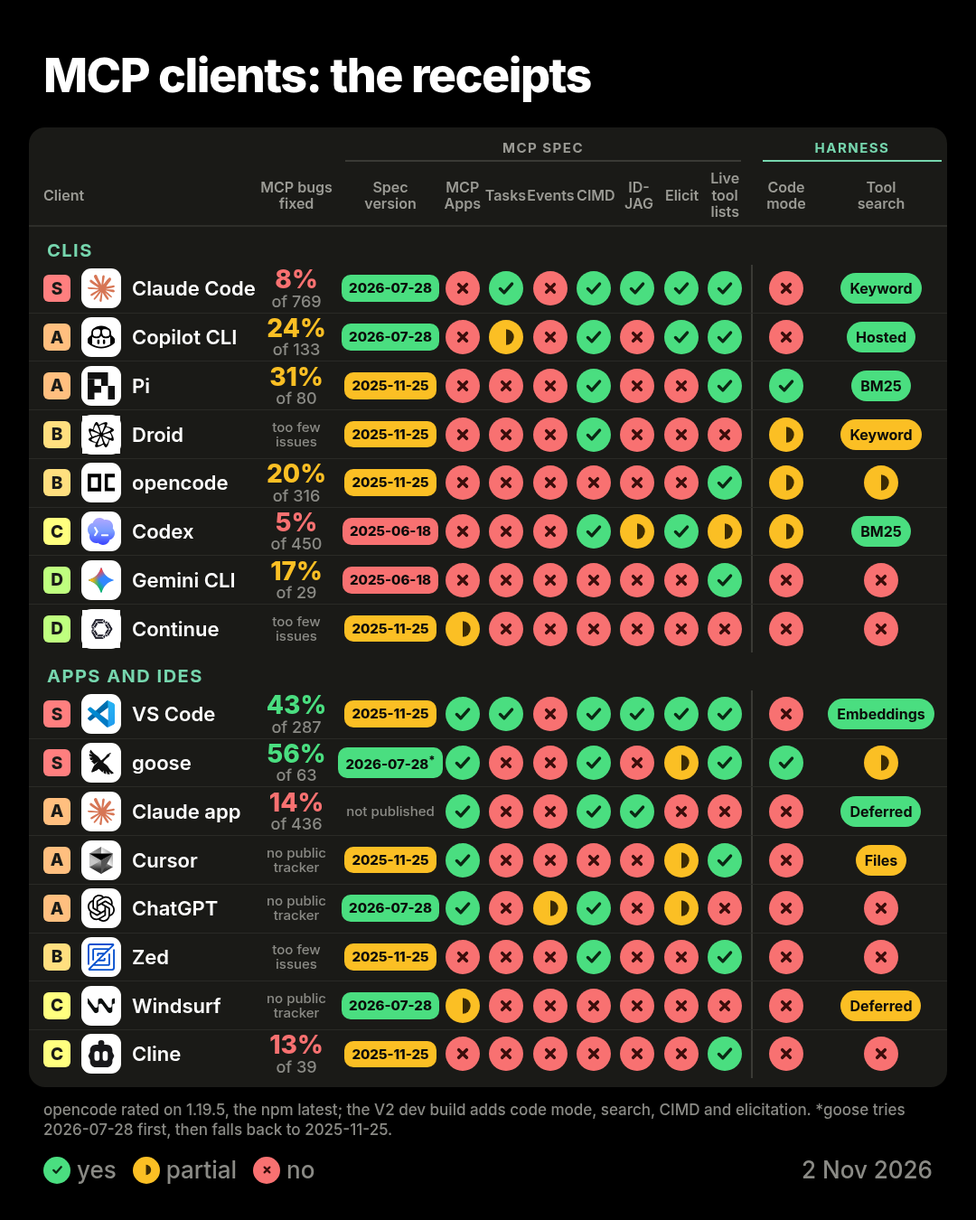
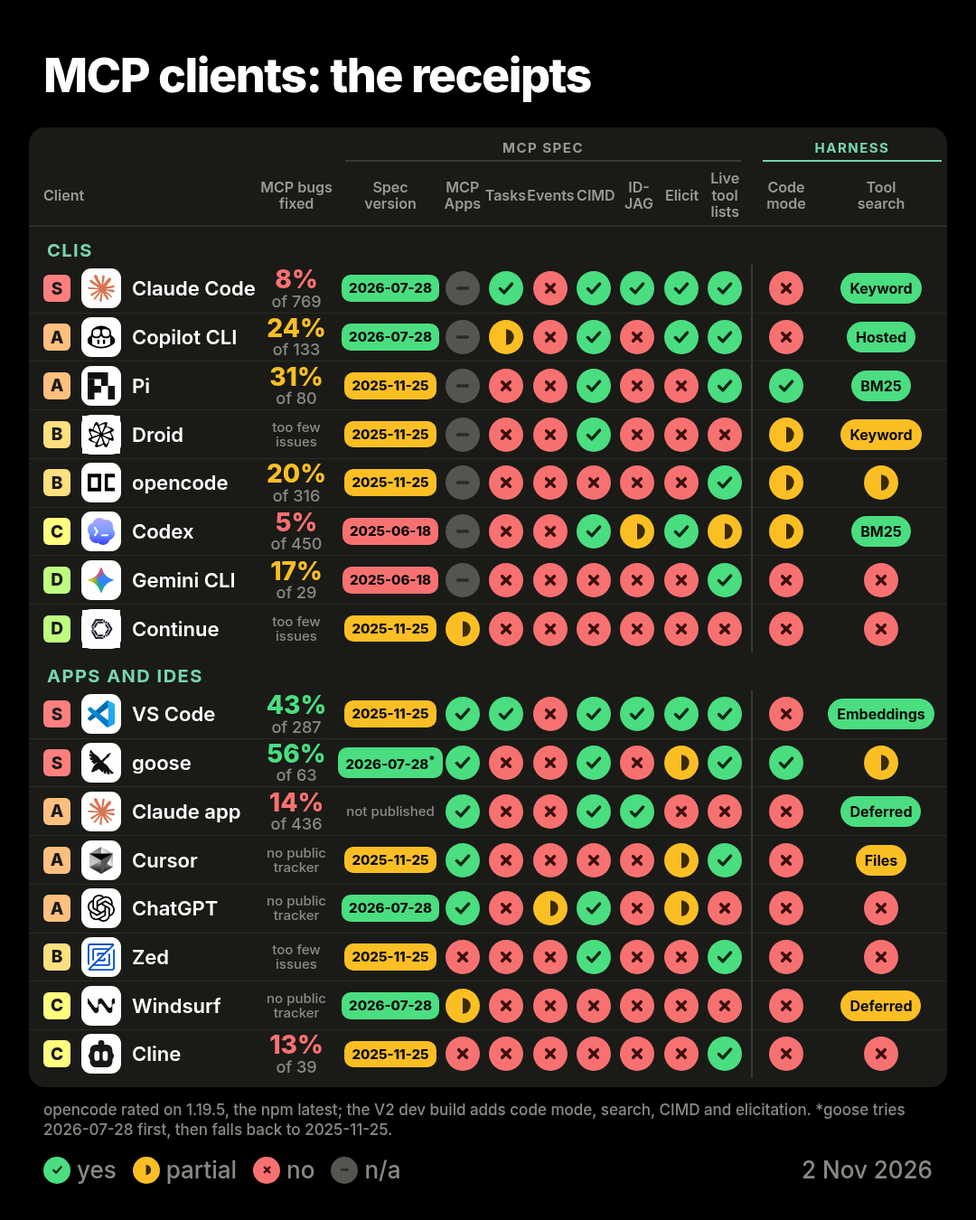
Grey out MCP Apps for terminal CLIs as n/a
A terminal has no web view to render MCP Apps UI, so a red "no" on the
seven terminal CLIs read as a missing feature. The cell is now "na":
grey dash icon, scored 0 like "no", so tiers are unchanged. Continue
keeps "p" because its IDE GUI renders apps. Validation allows "na" only
on the apps cell of a cli client and rejects a since date on it.

Changed region(s): [[0.4583, 0.2178, 0.4889, 0.4978], [0.3361, 0.9333, 0.3972, 0.9956]]

diff --git a/README.md b/README.md
@@ -17,13 +17,13 @@ As of 2 Nov 2026. Click any cell for its source, or a client name for the full e
 
 | Tier | Client | Version checked | MCP bugs fixed | Spec version | MCP Apps | Tasks | Events | CIMD | ID-JAG | Elicitation | Live tool lists | Code mode <sub>harness</sub> | Tool search <sub>harness</sub> |
 | --- | --- | --- | --- | --- | --- | --- | --- | --- | --- | --- | --- | --- | --- |
-| **S** | [Claude Code](EVIDENCE.md#claude-code) | `2.1.314` | [8% of 769](https://github.com/anthropics/claude-code/issues) | [![current spec](assets/icons/spec-current.svg) 2026-07-28](https://code.claude.com/docs/en/changelog) | [![no](assets/icons/n.svg)](https://github.com/anthropics/claude-code/issues/95149) | [![yes](assets/icons/y.svg)](https://code.claude.com/docs/en/mcp) | [![no](assets/icons/n.svg)](https://github.com/anthropics/claude-code/issues/101434) | [![yes](assets/icons/y.svg)](https://code.claude.com/docs/en/mcp) | [![yes](assets/icons/y.svg)](https://blog.modelcontextprotocol.io/posts/enterprise-managed-auth) | [![yes](assets/icons/y.svg)](https://code.claude.com/docs/en/mcp) | [![yes](assets/icons/y.svg)](https://github.com/anthropics/claude-code/blob/80c6959d28c4c30ecd14fc1cdf172f19d9adad81/CHANGELOG.md#L8529) | [![no](assets/icons/n.svg)](https://code.claude.com/docs/en/mcp) | [![yes](assets/icons/y.svg) Keyword](https://registry.npmjs.org/@anthropic-ai/claude-code-linux-x64/2.1.314) |
-| **A** | [Copilot CLI](EVIDENCE.md#copilot-cli) | `1.0.105` | [24% of 133](https://github.com/github/copilot-cli/issues) | [![current spec](assets/icons/spec-current.svg) 2026-07-28](https://github.com/github/copilot-cli/blob/main/changelog.md) | [![no](assets/icons/n.svg)](https://github.com/github/copilot-cli/blob/main/changelog.md) | [![partial](assets/icons/p.svg)](https://github.com/github/copilot-cli/blob/main/changelog.md) | [![no](assets/icons/n.svg)](https://registry.npmjs.org/@github/copilot-linux-x64/1.0.105) | [![yes](assets/icons/y.svg)](https://github.com/github/copilot-cli/blob/main/changelog.md) | [![no](assets/icons/n.svg)](https://registry.npmjs.org/@github/copilot-linux-x64/1.0.105) | [![yes](assets/icons/y.svg)](https://github.com/github/copilot-cli/blob/main/changelog.md) | [![yes](assets/icons/y.svg)](https://github.com/github/copilot-cli/blob/84ee80ea6490ce02d6000439356a609fcefbb9ae/changelog.md#L454) | [![no](assets/icons/n.svg)](https://github.com/github/copilot-cli/blob/main/changelog.md) | [![yes](assets/icons/y.svg) Hosted](https://registry.npmjs.org/@github/copilot-linux-x64/1.0.105) |
-| **A** | [Pi](EVIDENCE.md#pi) | `1.4.0` | [31% of 80](https://github.com/earendil-works/pi/issues) | [![one version behind](assets/icons/spec-behind.svg) 2025-11-25](https://registry.npmjs.org/@earendil-works/pi-coding-agent/1.4.0) | [![no](assets/icons/n.svg)](https://github.com/earendil-works/pi/blob/4a080252f06caf63a525d7873c5d94d3c23887e0/packages/coding-agent/docs/mcp.md#L246) | [![no](assets/icons/n.svg)](https://registry.npmjs.org/@earendil-works/pi-coding-agent/1.4.0) | [![no](assets/icons/n.svg)](https://github.com/earendil-works/pi/tree/4a080252f06caf63a525d7873c5d94d3c23887e0/packages/mcp/src) | [![yes](assets/icons/y.svg)](https://github.com/earendil-works/pi/blob/4a080252f06caf63a525d7873c5d94d3c23887e0/packages/coding-agent/docs/mcp.md#L162) | [![no](assets/icons/n.svg)](https://github.com/earendil-works/pi/tree/4a080252f06caf63a525d7873c5d94d3c23887e0/packages/mcp/src) | [![no](assets/icons/n.svg)](https://registry.npmjs.org/@earendil-works/pi-coding-agent/1.4.0) | [![yes](assets/icons/y.svg)](https://github.com/earendil-works/pi/blob/v1.4.0/packages/coding-agent/src/extensions/mcp/runtime.ts#L380-L382) | [![yes](assets/icons/y.svg)](https://github.com/earendil-works/pi/blob/4a080252f06caf63a525d7873c5d94d3c23887e0/packages/coding-agent/docs/mcp.md#L195) | [![yes](assets/icons/y.svg) BM25](https://github.com/earendil-works/pi/blob/4a080252f06caf63a525d7873c5d94d3c23887e0/packages/coding-agent/src/extensions/tool-search/tool.ts#L118) |
-| **B** | [Droid](EVIDENCE.md#droid) | `1.0.0` | [too few issues](https://github.com/Factory-AI/factory/issues) | [![one version behind](assets/icons/spec-behind.svg) 2025-11-25](https://registry.npmjs.org/@factory/cli-linux-x64/1.0.0) | [![no](assets/icons/n.svg)](https://registry.npmjs.org/@factory/cli-linux-x64/1.0.0) | [![no](assets/icons/n.svg)](https://registry.npmjs.org/@factory/cli-linux-x64/1.0.0) | [![no](assets/icons/n.svg)](https://registry.npmjs.org/@factory/cli-linux-x64/1.0.0) | [![yes](assets/icons/y.svg)](https://docs.factory.com/harness/mcp) | [![no](assets/icons/n.svg)](https://registry.npmjs.org/@factory/cli-linux-x64/1.0.0) | [![no](assets/icons/n.svg)](https://registry.npmjs.org/@factory/cli-linux-x64/1.0.0) | [![no](assets/icons/n.svg)](https://docs.factory.ai/cli/configuration/mcp) | [![partial](assets/icons/p.svg)](https://registry.npmjs.org/@factory/cli-linux-x64/1.0.0) | [![yes](assets/icons/y.svg) Keyword](https://registry.npmjs.org/@factory/cli-linux-x64/1.0.0) |
-| **B** | [opencode](EVIDENCE.md#opencode) | `1.19.5` | [20% of 316](https://github.com/anomalyco/opencode/issues) | [![one version behind](assets/icons/spec-behind.svg) 2025-11-25](https://github.com/anomalyco/opencode/blob/810c0eba1a7348036f8bdf61e6632d0c36c6876c/packages/opencode/src/mcp/index.ts#L39) | [![no](assets/icons/n.svg)](https://github.com/anomalyco/opencode/blob/810c0eba1a7348036f8bdf61e6632d0c36c6876c/packages/opencode/src/mcp/index.ts#L39) | [![no](assets/icons/n.svg)](https://github.com/anomalyco/opencode/blob/810c0eba1a7348036f8bdf61e6632d0c36c6876c/packages/opencode/src/mcp/index.ts#L47) | [![no](assets/icons/n.svg)](https://github.com/anomalyco/opencode/tree/810c0eba1a7348036f8bdf61e6632d0c36c6876c/packages/opencode/src/mcp) | [![no](assets/icons/n.svg)](https://github.com/anomalyco/opencode/blob/810c0eba1a7348036f8bdf61e6632d0c36c6876c/packages/opencode/src/mcp/index.ts#L301) | [![no](assets/icons/n.svg)](https://github.com/anomalyco/opencode/tree/810c0eba1a7348036f8bdf61e6632d0c36c6876c/packages/opencode/src/mcp) | [![no](assets/icons/n.svg)](https://github.com/anomalyco/opencode/blob/810c0eba1a7348036f8bdf61e6632d0c36c6876c/packages/opencode/src/mcp/index.ts#L44) | [![yes](assets/icons/y.svg)](https://github.com/anomalyco/opencode/blob/v1.19.5/packages/opencode/src/mcp/index.ts#L461-L471) | [![partial](assets/icons/p.svg)](https://github.com/anomalyco/opencode/blob/810c0eba1a7348036f8bdf61e6632d0c36c6876c/packages/opencode/src/effect/runtime-flags.ts#L48) | [![partial](assets/icons/p.svg)](https://github.com/anomalyco/opencode/blob/810c0eba1a7348036f8bdf61e6632d0c36c6876c/packages/codemode/src/tool-runtime.ts#L411) |
-| **C** | [Codex](EVIDENCE.md#codex) | `0.166.0` | [5% of 450](https://github.com/openai/codex/issues) | [![older spec](assets/icons/spec-older.svg) 2025-06-18](https://github.com/openai/codex/blob/6ff1e1ca3b30fc8b914720681fcf5fe62e95f856/codex-rs/features/src/lib.rs#L1641) | [![no](assets/icons/n.svg)](https://github.com/openai/codex/issues/52524) | [![no](assets/icons/n.svg)](https://github.com/openai/codex/issues/48617) | [![no](assets/icons/n.svg)](https://github.com/openai/codex/blob/6ff1e1ca3b30fc8b914720681fcf5fe62e95f856/codex-rs/codex-mcp/src/resource_client.rs#L353) | [![yes](assets/icons/y.svg)](https://developers.openai.com/codex/mcp) | [![partial](assets/icons/p.svg)](https://github.com/openai/codex/blob/6ff1e1ca3b30fc8b914720681fcf5fe62e95f856/codex-rs/features/src/lib.rs#L1671) | [![yes](assets/icons/y.svg)](https://github.com/openai/codex/pull/22188) | [![partial](assets/icons/p.svg)](https://github.com/openai/codex/blob/rust-v0.166.0/codex-rs/features/src/lib.rs#L1646-L1651) | [![partial](assets/icons/p.svg)](https://developers.openai.com/codex/config-reference) | [![yes](assets/icons/y.svg) BM25](https://github.com/openai/codex/blob/6ff1e1ca3b30fc8b914720681fcf5fe62e95f856/codex-rs/core/src/tools/handlers/tool_search.rs#L171) |
-| **D** | [Gemini CLI](EVIDENCE.md#gemini-cli) | `0.66.0` | [17% of 29](https://github.com/google-gemini/gemini-cli/issues) | [![older spec](assets/icons/spec-older.svg) 2025-06-18](https://github.com/google-gemini/gemini-cli/blob/970413207732f5d4d8c50540c7fc359c44fdaaf2/packages/core/package.json#L34) | [![no](assets/icons/n.svg)](https://github.com/google-gemini/gemini-cli/blob/970413207732f5d4d8c50540c7fc359c44fdaaf2/packages/core/src/tools/mcp-client.ts#L1869) | [![no](assets/icons/n.svg)](https://github.com/google-gemini/gemini-cli/blob/970413207732f5d4d8c50540c7fc359c44fdaaf2/packages/core/src/tools/mcp-client.ts#L1869) | [![no](assets/icons/n.svg)](https://github.com/google-gemini/gemini-cli/tree/970413207732f5d4d8c50540c7fc359c44fdaaf2/packages/core/src) | [![no](assets/icons/n.svg)](https://github.com/google-gemini/gemini-cli/blob/970413207732f5d4d8c50540c7fc359c44fdaaf2/packages/core/src/mcp/oauth-provider.ts#L105) | [![no](assets/icons/n.svg)](https://github.com/google-gemini/gemini-cli/tree/970413207732f5d4d8c50540c7fc359c44fdaaf2/packages/core/src/mcp) | [![no](assets/icons/n.svg)](https://github.com/google-gemini/gemini-cli/blob/970413207732f5d4d8c50540c7fc359c44fdaaf2/packages/core/src/tools/mcp-client.ts#L1869) | [![yes](assets/icons/y.svg)](https://github.com/google-gemini/gemini-cli/blob/v0.66.0/packages/core/src/tools/mcp-client.ts#L419-L427) | [![no](assets/icons/n.svg)](https://github.com/google-gemini/gemini-cli/tree/970413207732f5d4d8c50540c7fc359c44fdaaf2/packages/core/src/tools) | [![no](assets/icons/n.svg)](https://github.com/google-gemini/gemini-cli/tree/970413207732f5d4d8c50540c7fc359c44fdaaf2/packages/core/src/tools) |
+| **S** | [Claude Code](EVIDENCE.md#claude-code) | `2.1.314` | [8% of 769](https://github.com/anthropics/claude-code/issues) | [![current spec](assets/icons/spec-current.svg) 2026-07-28](https://code.claude.com/docs/en/changelog) | [![not applicable](assets/icons/na.svg)](https://github.com/anthropics/claude-code/issues/95149) | [![yes](assets/icons/y.svg)](https://code.claude.com/docs/en/mcp) | [![no](assets/icons/n.svg)](https://github.com/anthropics/claude-code/issues/101434) | [![yes](assets/icons/y.svg)](https://code.claude.com/docs/en/mcp) | [![yes](assets/icons/y.svg)](https://blog.modelcontextprotocol.io/posts/enterprise-managed-auth) | [![yes](assets/icons/y.svg)](https://code.claude.com/docs/en/mcp) | [![yes](assets/icons/y.svg)](https://github.com/anthropics/claude-code/blob/80c6959d28c4c30ecd14fc1cdf172f19d9adad81/CHANGELOG.md#L8529) | [![no](assets/icons/n.svg)](https://code.claude.com/docs/en/mcp) | [![yes](assets/icons/y.svg) Keyword](https://registry.npmjs.org/@anthropic-ai/claude-code-linux-x64/2.1.314) |
+| **A** | [Copilot CLI](EVIDENCE.md#copilot-cli) | `1.0.105` | [24% of 133](https://github.com/github/copilot-cli/issues) | [![current spec](assets/icons/spec-current.svg) 2026-07-28](https://github.com/github/copilot-cli/blob/main/changelog.md) | [![not applicable](assets/icons/na.svg)](https://github.com/github/copilot-cli/blob/main/changelog.md) | [![partial](assets/icons/p.svg)](https://github.com/github/copilot-cli/blob/main/changelog.md) | [![no](assets/icons/n.svg)](https://registry.npmjs.org/@github/copilot-linux-x64/1.0.105) | [![yes](assets/icons/y.svg)](https://github.com/github/copilot-cli/blob/main/changelog.md) | [![no](assets/icons/n.svg)](https://registry.npmjs.org/@github/copilot-linux-x64/1.0.105) | [![yes](assets/icons/y.svg)](https://github.com/github/copilot-cli/blob/main/changelog.md) | [![yes](assets/icons/y.svg)](https://github.com/github/copilot-cli/blob/84ee80ea6490ce02d6000439356a609fcefbb9ae/changelog.md#L454) | [![no](assets/icons/n.svg)](https://github.com/github/copilot-cli/blob/main/changelog.md) | [![yes](assets/icons/y.svg) Hosted](https://registry.npmjs.org/@github/copilot-linux-x64/1.0.105) |
+| **A** | [Pi](EVIDENCE.md#pi) | `1.4.0` | [31% of 80](https://github.com/earendil-works/pi/issues) | [![one version behind](assets/icons/spec-behind.svg) 2025-11-25](https://registry.npmjs.org/@earendil-works/pi-coding-agent/1.4.0) | [![not applicable](assets/icons/na.svg)](https://github.com/earendil-works/pi/blob/4a080252f06caf63a525d7873c5d94d3c23887e0/packages/coding-agent/docs/mcp.md#L246) | [![no](assets/icons/n.svg)](https://registry.npmjs.org/@earendil-works/pi-coding-agent/1.4.0) | [![no](assets/icons/n.svg)](https://github.com/earendil-works/pi/tree/4a080252f06caf63a525d7873c5d94d3c23887e0/packages/mcp/src) | [![yes](assets/icons/y.svg)](https://github.com/earendil-works/pi/blob/4a080252f06caf63a525d7873c5d94d3c23887e0/packages/coding-agent/docs/mcp.md#L162) | [![no](assets/icons/n.svg)](https://github.com/earendil-works/pi/tree/4a080252f06caf63a525d7873c5d94d3c23887e0/packages/mcp/src) | [![no](assets/icons/n.svg)](https://registry.npmjs.org/@earendil-works/pi-coding-agent/1.4.0) | [![yes](assets/icons/y.svg)](https://github.com/earendil-works/pi/blob/v1.4.0/packages/coding-agent/src/extensions/mcp/runtime.ts#L380-L382) | [![yes](assets/icons/y.svg)](https://github.com/earendil-works/pi/blob/4a080252f06caf63a525d7873c5d94d3c23887e0/packages/coding-agent/docs/mcp.md#L195) | [![yes](assets/icons/y.svg) BM25](https://github.com/earendil-works/pi/blob/4a080252f06caf63a525d7873c5d94d3c23887e0/packages/coding-agent/src/extensions/tool-search/tool.ts#L118) |
+| **B** | [Droid](EVIDENCE.md#droid) | `1.0.0` | [too few issues](https://github.com/Factory-AI/factory/issues) | [![one version behind](assets/icons/spec-behind.svg) 2025-11-25](https://registry.npmjs.org/@factory/cli-linux-x64/1.0.0) | [![not applicable](assets/icons/na.svg)](https://registry.npmjs.org/@factory/cli-linux-x64/1.0.0) | [![no](assets/icons/n.svg)](https://registry.npmjs.org/@factory/cli-linux-x64/1.0.0) | [![no](assets/icons/n.svg)](https://registry.npmjs.org/@factory/cli-linux-x64/1.0.0) | [![yes](assets/icons/y.svg)](https://docs.factory.com/harness/mcp) | [![no](assets/icons/n.svg)](https://registry.npmjs.org/@factory/cli-linux-x64/1.0.0) | [![no](assets/icons/n.svg)](https://registry.npmjs.org/@factory/cli-linux-x64/1.0.0) | [![no](assets/icons/n.svg)](https://docs.factory.ai/cli/configuration/mcp) | [![partial](assets/icons/p.svg)](https://registry.npmjs.org/@factory/cli-linux-x64/1.0.0) | [![yes](assets/icons/y.svg) Keyword](https://registry.npmjs.org/@factory/cli-linux-x64/1.0.0) |
+| **B** | [opencode](EVIDENCE.md#opencode) | `1.19.5` | [20% of 316](https://github.com/anomalyco/opencode/issues) | [![one version behind](assets/icons/spec-behind.svg) 2025-11-25](https://github.com/anomalyco/opencode/blob/810c0eba1a7348036f8bdf61e6632d0c36c6876c/packages/opencode/src/mcp/index.ts#L39) | [![not applicable](assets/icons/na.svg)](https://github.com/anomalyco/opencode/blob/810c0eba1a7348036f8bdf61e6632d0c36c6876c/packages/opencode/src/mcp/index.ts#L39) | [![no](assets/icons/n.svg)](https://github.com/anomalyco/opencode/blob/810c0eba1a7348036f8bdf61e6632d0c36c6876c/packages/opencode/src/mcp/index.ts#L47) | [![no](assets/icons/n.svg)](https://github.com/anomalyco/opencode/tree/810c0eba1a7348036f8bdf61e6632d0c36c6876c/packages/opencode/src/mcp) | [![no](assets/icons/n.svg)](https://github.com/anomalyco/opencode/blob/810c0eba1a7348036f8bdf61e6632d0c36c6876c/packages/opencode/src/mcp/index.ts#L301) | [![no](assets/icons/n.svg)](https://github.com/anomalyco/opencode/tree/810c0eba1a7348036f8bdf61e6632d0c36c6876c/packages/opencode/src/mcp) | [![no](assets/icons/n.svg)](https://github.com/anomalyco/opencode/blob/810c0eba1a7348036f8bdf61e6632d0c36c6876c/packages/opencode/src/mcp/index.ts#L44) | [![yes](assets/icons/y.svg)](https://github.com/anomalyco/opencode/blob/v1.19.5/packages/opencode/src/mcp/index.ts#L461-L471) | [![partial](assets/icons/p.svg)](https://github.com/anomalyco/opencode/blob/810c0eba1a7348036f8bdf61e6632d0c36c6876c/packages/opencode/src/effect/runtime-flags.ts#L48) | [![partial](assets/icons/p.svg)](https://github.com/anomalyco/opencode/blob/810c0eba1a7348036f8bdf61e6632d0c36c6876c/packages/codemode/src/tool-runtime.ts#L411) |
+| **C** | [Codex](EVIDENCE.md#codex) | `0.166.0` | [5% of 450](https://github.com/openai/codex/issues) | [![older spec](assets/icons/spec-older.svg) 2025-06-18](https://github.com/openai/codex/blob/6ff1e1ca3b30fc8b914720681fcf5fe62e95f856/codex-rs/features/src/lib.rs#L1641) | [![not applicable](assets/icons/na.svg)](https://github.com/openai/codex/issues/52524) | [![no](assets/icons/n.svg)](https://github.com/openai/codex/issues/48617) | [![no](assets/icons/n.svg)](https://github.com/openai/codex/blob/6ff1e1ca3b30fc8b914720681fcf5fe62e95f856/codex-rs/codex-mcp/src/resource_client.rs#L353) | [![yes](assets/icons/y.svg)](https://developers.openai.com/codex/mcp) | [![partial](assets/icons/p.svg)](https://github.com/openai/codex/blob/6ff1e1ca3b30fc8b914720681fcf5fe62e95f856/codex-rs/features/src/lib.rs#L1671) | [![yes](assets/icons/y.svg)](https://github.com/openai/codex/pull/22188) | [![partial](assets/icons/p.svg)](https://github.com/openai/codex/blob/rust-v0.166.0/codex-rs/features/src/lib.rs#L1646-L1651) | [![partial](assets/icons/p.svg)](https://developers.openai.com/codex/config-reference) | [![yes](assets/icons/y.svg) BM25](https://github.com/openai/codex/blob/6ff1e1ca3b30fc8b914720681fcf5fe62e95f856/codex-rs/core/src/tools/handlers/tool_search.rs#L171) |
+| **D** | [Gemini CLI](EVIDENCE.md#gemini-cli) | `0.66.0` | [17% of 29](https://github.com/google-gemini/gemini-cli/issues) | [![older spec](assets/icons/spec-older.svg) 2025-06-18](https://github.com/google-gemini/gemini-cli/blob/970413207732f5d4d8c50540c7fc359c44fdaaf2/packages/core/package.json#L34) | [![not applicable](assets/icons/na.svg)](https://github.com/google-gemini/gemini-cli/blob/970413207732f5d4d8c50540c7fc359c44fdaaf2/packages/core/src/tools/mcp-client.ts#L1869) | [![no](assets/icons/n.svg)](https://github.com/google-gemini/gemini-cli/blob/970413207732f5d4d8c50540c7fc359c44fdaaf2/packages/core/src/tools/mcp-client.ts#L1869) | [![no](assets/icons/n.svg)](https://github.com/google-gemini/gemini-cli/tree/970413207732f5d4d8c50540c7fc359c44fdaaf2/packages/core/src) | [![no](assets/icons/n.svg)](https://github.com/google-gemini/gemini-cli/blob/970413207732f5d4d8c50540c7fc359c44fdaaf2/packages/core/src/mcp/oauth-provider.ts#L105) | [![no](assets/icons/n.svg)](https://github.com/google-gemini/gemini-cli/tree/970413207732f5d4d8c50540c7fc359c44fdaaf2/packages/core/src/mcp) | [![no](assets/icons/n.svg)](https://github.com/google-gemini/gemini-cli/blob/970413207732f5d4d8c50540c7fc359c44fdaaf2/packages/core/src/tools/mcp-client.ts#L1869) | [![yes](assets/icons/y.svg)](https://github.com/google-gemini/gemini-cli/blob/v0.66.0/packages/core/src/tools/mcp-client.ts#L419-L427) | [![no](assets/icons/n.svg)](https://github.com/google-gemini/gemini-cli/tree/970413207732f5d4d8c50540c7fc359c44fdaaf2/packages/core/src/tools) | [![no](assets/icons/n.svg)](https://github.com/google-gemini/gemini-cli/tree/970413207732f5d4d8c50540c7fc359c44fdaaf2/packages/core/src/tools) |
 | **D** | [Continue](EVIDENCE.md#continue) | `2.0.0` | [too few issues](https://github.com/continuedev/continue/issues) | [![one version behind](assets/icons/spec-behind.svg) 2025-11-25](https://github.com/continuedev/continue/blob/5522c6f44ca0ac3528b37244818fbfa39b5af470/extensions/cli/src/services/MCPService.ts#L405) | [![partial](assets/icons/p.svg)](https://github.com/continuedev/continue/blob/5522c6f44ca0ac3528b37244818fbfa39b5af470/gui/src/pages/gui/ToolCallDiv/MCPAppRenderer.tsx) | [![no](assets/icons/n.svg)](https://github.com/continuedev/continue/blob/5522c6f44ca0ac3528b37244818fbfa39b5af470/extensions/cli/src/services/MCPService.ts#L405) | [![no](assets/icons/n.svg)](https://github.com/continuedev/continue/tree/5522c6f44ca0ac3528b37244818fbfa39b5af470/core) | [![no](assets/icons/n.svg)](https://github.com/continuedev/continue/blob/5522c6f44ca0ac3528b37244818fbfa39b5af470/core/context/mcp/MCPOauth.ts#L119) | [![no](assets/icons/n.svg)](https://github.com/continuedev/continue/tree/5522c6f44ca0ac3528b37244818fbfa39b5af470/core) | [![no](assets/icons/n.svg)](https://github.com/continuedev/continue/blob/5522c6f44ca0ac3528b37244818fbfa39b5af470/extensions/cli/src/services/MCPService.ts#L405) | [![no](assets/icons/n.svg)](https://github.com/continuedev/continue/blob/5522c6f44ca0ac3528b37244818fbfa39b5af470/extensions/cli/src/services/MCPService.ts#L299-L310) | [![no](assets/icons/n.svg)](https://github.com/continuedev/continue/tree/5522c6f44ca0ac3528b37244818fbfa39b5af470/core/context/mcp) | [![no](assets/icons/n.svg)](https://github.com/continuedev/continue/tree/5522c6f44ca0ac3528b37244818fbfa39b5af470/core/context/mcp) |
 
 ### Apps and IDEs
@@ -66,22 +66,22 @@ Code mode and Tool search are marked harness: they are how the client handles to
 | MCP bugs fixed | The share of the client's MCP issues closed as completed. | [Methodology](methodology/METHODOLOGY.md#mcp-bugs-fixed) |
 <!-- columns:end -->
 
-![partial](assets/icons/p.svg) means partial: behind a flag, off by default, experimental, or only one of two modes. ![no](assets/icons/n.svg) means not supported, or not documented anywhere we could find. If you can point to a source that says otherwise, [send it in](#add-or-correct-your-client).
+![partial](assets/icons/p.svg) means partial: behind a flag, off by default, experimental, or only one of two modes. ![no](assets/icons/n.svg) means not supported, or not documented anywhere we could find. ![not applicable](assets/icons/na.svg) marks MCP Apps in a terminal CLI, which has no web view to render the UI; it scores like no. If you can point to a source that says otherwise, [send it in](#add-or-correct-your-client).
 
 ## Clients supporting each feature
 
 <!-- features:start -->
-| Feature | ![yes](assets/icons/y.svg) Yes | ![partial](assets/icons/p.svg) Partial | ![no](assets/icons/n.svg) No |
-| --- | --- | --- | --- |
-| MCP Apps | 5 | 2 | 9 |
-| Tasks | 2 | 1 | 13 |
-| Events | 0 | 1 | 15 |
-| CIMD | 10 | 0 | 6 |
-| ID-JAG | 3 | 1 | 12 |
-| Elicitation | 4 | 3 | 9 |
-| Live tool lists | 10 | 1 | 5 |
-| Code mode <sub>harness</sub> | 2 | 3 | 11 |
-| Tool search <sub>harness</sub> | 9 | 2 | 5 |
+| Feature | ![yes](assets/icons/y.svg) Yes | ![partial](assets/icons/p.svg) Partial | ![no](assets/icons/n.svg) No | ![not applicable](assets/icons/na.svg) n/a |
+| --- | --- | --- | --- | --- |
+| MCP Apps | 5 | 2 | 2 | 7 |
+| Tasks | 2 | 1 | 13 | 0 |
+| Events | 0 | 1 | 15 | 0 |
+| CIMD | 10 | 0 | 6 | 0 |
+| ID-JAG | 3 | 1 | 12 | 0 |
+| Elicitation | 4 | 3 | 9 | 0 |
+| Live tool lists | 10 | 1 | 5 | 0 |
+| Code mode <sub>harness</sub> | 2 | 3 | 11 | 0 |
+| Tool search <sub>harness</sub> | 9 | 2 | 5 | 0 |
 <!-- features:end -->
 
 ## Adoption over time
@@ -188,7 +188,7 @@ No time for a pull request? Use the [list a client form](../../issues/new?templa
 
 ## Methodology
 
-- Each feature cell is `y`, `p` or `n`, and needs a source link, a method and a checked date. Partial covers flags, defaults that are off, experimental builds and one of two modes.
+- Each feature cell is `y`, `p` or `n` (`na` for MCP Apps in a terminal CLI), and needs a source link, a method and a checked date. Partial covers flags, defaults that are off, experimental builds and one of two modes.
 - The spec version is the newest protocol revision a client negotiates, graded against the list in [data/meta.yaml](data/meta.yaml).
 - MCP bugs fixed is completed issues over issues minus duplicates, for MCP issues opened since the current spec shipped. Below 20 issues no rate is shown.
 - Tiers come from the feature score, the spec grade and the fix rate, using the rules in [methodology/RUBRIC.md](methodology/RUBRIC.md).

diff --git a/EVIDENCE.md b/EVIDENCE.md
@@ -15,7 +15,7 @@ Tier **S** · CLI · version checked `2.1.314` · tracker [anthropics/claude-cod
 | Feature | Value | Evidence | Method | Checked | Shipped |
 | --- | --- | --- | --- | --- | --- |
 | Spec version | [![current spec](assets/icons/spec-current.svg) 2026-07-28](https://code.claude.com/docs/en/changelog) | Live probe of 2.1.314: initialize carries 2026-07-28 | probe | 2026-10-30 |  |
-| MCP Apps | [![no](assets/icons/n.svg)](https://github.com/anthropics/claude-code/issues/95149) | Live probe of 2.1.314 declares no io.modelcontextprotocol/ui extension; the bundle adds it only under an undocumented environment variable, and the feature request is still open | probe | 2026-10-30 |  |
+| MCP Apps | [![not applicable](assets/icons/na.svg)](https://github.com/anthropics/claude-code/issues/95149) | Live probe of 2.1.314 declares no io.modelcontextprotocol/ui extension; the bundle adds it only under an undocumented environment variable, and the feature request is still open | probe | 2026-10-30 |  |
 | Tasks | [![yes](assets/icons/y.svg)](https://code.claude.com/docs/en/mcp) | Docs: MCP tasks are public beta from v2.1.304, turned on by Anthropic feature flags for terminal, Agent SDK and GitHub Actions sessions on 2026-07-28 connections, and a one-shot claude -p run does not get them, which is why the unauthenticated -p probe saw no tasks | docs | 2026-10-30 | [2026-10-19 (2.1.304)](https://code.claude.com/docs/en/mcp) |
 | Events | [![no](assets/icons/n.svg)](https://github.com/anthropics/claude-code/issues/101434) | Open feature request to start routines from MCP events; channels are a Claude-specific push path, not the working group design | issue | 2026-10-30 |  |
 | CIMD | [![yes](assets/icons/y.svg)](https://code.claude.com/docs/en/mcp) | Docs list Client ID Metadata Document support, and the 2.1.81 release note names CIMD (SEP-991) | docs | 2026-10-30 | [2026-03-20 (2.1.81)](https://github.com/anthropics/claude-code/releases/tag/v2.1.81) |
@@ -34,7 +34,7 @@ Tier **A** · CLI · version checked `1.0.105` · tracker [github/copilot-cli](h
 | Feature | Value | Evidence | Method | Checked | Shipped |
 | --- | --- | --- | --- | --- | --- |
 | Spec version | [![current spec](assets/icons/spec-current.svg) 2026-07-28](https://github.com/github/copilot-cli/blob/main/changelog.md) | Live probe of 1.0.105: initialize carries 2026-07-28; changelog 1.0.81 ships MCP 2026-07-28 support | probe | 2026-10-30 |  |
-| MCP Apps | [![no](assets/icons/n.svg)](https://github.com/github/copilot-cli/blob/main/changelog.md) | Live probe of 1.0.105 declares no io.modelcontextprotocol/ui extension; the runtime has an undocumented copilot_cli_mcp_apps flag for UI passthrough to a host, and nothing in the changelog | probe | 2026-10-30 |  |
+| MCP Apps | [![not applicable](assets/icons/na.svg)](https://github.com/github/copilot-cli/blob/main/changelog.md) | Live probe of 1.0.105 declares no io.modelcontextprotocol/ui extension; the runtime has an undocumented copilot_cli_mcp_apps flag for UI passthrough to a host, and nothing in the changelog | probe | 2026-10-30 |  |
 | Tasks | [![partial](assets/icons/p.svg)](https://github.com/github/copilot-cli/blob/main/changelog.md) | Changelog 1.0.41 adds experimental MCP Tasks, available only with experimental mode (off by default, --experimental or /settings experimental on); the default-mode probe of 1.0.105 declares no tasks, which matches | changelog | 2026-10-30 | [2026-05-05 (1.0.41)](https://github.com/github/copilot-cli/releases/tag/v1.0.41) |
 | Events | [![no](assets/icons/n.svg)](https://registry.npmjs.org/@github/copilot-linux-x64/1.0.105) | No events/list or events/subscribe in the 1.0.105 bundle and nothing in the changelog | source | 2026-10-30 |  |
 | CIMD | [![yes](assets/icons/y.svg)](https://github.com/github/copilot-cli/blob/main/changelog.md) | Changelog 1.0.83 adds Client ID Metadata Document (CIMD) support for MCP OAuth sign-in, and the 1.0.105 bundle checks client_id_metadata_document_supported | changelog | 2026-10-30 | [2026-09-04 (1.0.83)](https://github.com/github/copilot-cli/releases/tag/v1.0.83) |
@@ -53,7 +53,7 @@ Tier **A** · CLI · version checked `1.4.0` · tracker [earendil-works/pi](http
 | Feature | Value | Evidence | Method | Checked | Shipped |
 | --- | --- | --- | --- | --- | --- |
 | Spec version | [![one version behind](assets/icons/spec-behind.svg) 2025-11-25](https://registry.npmjs.org/@earendil-works/pi-coding-agent/1.4.0) | Own probe of pi 1.4.0 (pi mcp list against a local stdio server, empty HOME) on 2026-10-30 sent initialize with protocolVersion 2025-11-25, matching packages/mcp/src/protocol/types.ts:4 LATEST_PROTOCOL_VERSION at tag v1.4.0 | probe | 2026-10-30 |  |
-| MCP Apps | [![no](assets/icons/n.svg)](https://github.com/earendil-works/pi/blob/4a080252f06caf63a525d7873c5d94d3c23887e0/packages/coding-agent/docs/mcp.md#L246) | docs/mcp.md:246 says resources for MCP Apps (ui:// or text/html;profile=mcp-app) are omitted because Pi does not render them, and extensions/mcp/resources.ts:49 filters them out | source | 2026-10-30 |  |
+| MCP Apps | [![not applicable](assets/icons/na.svg)](https://github.com/earendil-works/pi/blob/4a080252f06caf63a525d7873c5d94d3c23887e0/packages/coding-agent/docs/mcp.md#L246) | docs/mcp.md:246 says resources for MCP Apps (ui:// or text/html;profile=mcp-app) are omitted because Pi does not render them, and extensions/mcp/resources.ts:49 filters them out | source | 2026-10-30 |  |
 | Tasks | [![no](assets/icons/n.svg)](https://registry.npmjs.org/@earendil-works/pi-coding-agent/1.4.0) | Own probe of 1.4.0 declared only roots; extensions/mcp/runtime.ts:360-365 builds McpClient with roots only, and grep for tasks/get and io.modelcontextprotocol/tasks finds nothing at tag v1.4.0 | probe | 2026-10-30 |  |
 | Events | [![no](assets/icons/n.svg)](https://github.com/earendil-works/pi/tree/4a080252f06caf63a525d7873c5d94d3c23887e0/packages/mcp/src) | grep for events/subscribe and notifications/events finds nothing in packages/mcp or the coding agent at tag v1.4.0 | source | 2026-10-30 |  |
 | CIMD | [![yes](assets/icons/y.svg)](https://github.com/earendil-works/pi/blob/4a080252f06caf63a525d7873c5d94d3c23887e0/packages/coding-agent/docs/mcp.md#L162) | docs/mcp.md:162-172 documents oauth.clientRegistration cimd, which identifies Pi by https://pi.dev/oauth/client.json instead of dynamic registration (extensions/mcp/oauth.ts:246-265); a documented setting, so y | docs | 2026-10-30 | [2026-10-03 (1.0.1)](https://github.com/earendil-works/pi/releases/tag/v1.0.1) |
@@ -72,7 +72,7 @@ Tier **B** · CLI · version checked `1.0.0` · tracker [Factory-AI/factory](htt
 | Feature | Value | Evidence | Method | Checked | Shipped |
 | --- | --- | --- | --- | --- | --- |
 | Spec version | [![one version behind](assets/icons/spec-behind.svg) 2025-11-25](https://registry.npmjs.org/@factory/cli-linux-x64/1.0.0) | Live probe of 1.0.0 on 2026-10-30 negotiated 2025-11-25 (clientInfo factory-cli); the 1.0.0 binary still ships flag mcp_2026_07_28 with defaultValue false | probe | 2026-10-30 |  |
-| MCP Apps | [![no](assets/icons/n.svg)](https://registry.npmjs.org/@factory/cli-linux-x64/1.0.0) | 0 hits for io.modelcontextprotocol/ui or ui:// in the 1.0.0 binary | source | 2026-10-30 |  |
+| MCP Apps | [![not applicable](assets/icons/na.svg)](https://registry.npmjs.org/@factory/cli-linux-x64/1.0.0) | 0 hits for io.modelcontextprotocol/ui or ui:// in the 1.0.0 binary | source | 2026-10-30 |  |
 | Tasks | [![no](assets/icons/n.svg)](https://registry.npmjs.org/@factory/cli-linux-x64/1.0.0) | 0 hits for io.modelcontextprotocol/tasks in the 1.0.0 binary; tasks/get appears only in bundled SDK schemas, and the probe saw no tasks capability | source | 2026-10-30 |  |
 | Events | [![no](assets/icons/n.svg)](https://registry.npmjs.org/@factory/cli-linux-x64/1.0.0) | 0 hits for events/subscribe or notifications/events in the 1.0.0 binary | source | 2026-10-30 |  |
 | CIMD | [![yes](assets/icons/y.svg)](https://docs.factory.com/harness/mcp) | Docs: Droid uses Factory's published client metadata when the server supports Client ID Metadata Documents (CIMD), with a clientMetadataUrl override that the 1.0.0 binary handles | docs | 2026-10-30 | [2026-06-12 (0.147.0)](https://docs.factory.com/changelog/release-notes) |
@@ -93,7 +93,7 @@ Tier **B** · CLI · version checked `1.19.5` · tracker [anomalyco/opencode](ht
 | Feature | Value | Evidence | Method | Checked | Shipped |
 | --- | --- | --- | --- | --- | --- |
 | Spec version | [![one version behind](assets/icons/spec-behind.svg) 2025-11-25](https://github.com/anomalyco/opencode/blob/810c0eba1a7348036f8bdf61e6632d0c36c6876c/packages/opencode/src/mcp/index.ts#L39) | Live probe of V1 1.19.5 on 2026-10-30 negotiated 2025-11-25; V1 uses @modelcontextprotocol/sdk 1.29.0 (bun.lock:1826), and V2 v2.2.3 still defaults to protocol legacy (up to 2025-11-25) with auto and 2026-07-28 as opt-ins (packages/schema/src/mcp.ts:20) | probe | 2026-10-30 |  |
-| MCP Apps | [![no](assets/icons/n.svg)](https://github.com/anomalyco/opencode/blob/810c0eba1a7348036f8bdf61e6632d0c36c6876c/packages/opencode/src/mcp/index.ts#L39) | V1 1.19.5 declares only roots, and grep for ext-apps, ui:// and io.modelcontextprotocol/ui finds nothing in V1 1.19.5 (apart from a test resource URI), its npm bundle or V2 v2.2.3 | source | 2026-10-30 |  |
+| MCP Apps | [![not applicable](assets/icons/na.svg)](https://github.com/anomalyco/opencode/blob/810c0eba1a7348036f8bdf61e6632d0c36c6876c/packages/opencode/src/mcp/index.ts#L39) | V1 1.19.5 declares only roots, and grep for ext-apps, ui:// and io.modelcontextprotocol/ui finds nothing in V1 1.19.5 (apart from a test resource URI), its npm bundle or V2 v2.2.3 | source | 2026-10-30 |  |
 | Tasks | [![no](assets/icons/n.svg)](https://github.com/anomalyco/opencode/blob/810c0eba1a7348036f8bdf61e6632d0c36c6876c/packages/opencode/src/mcp/index.ts#L47) | V1 1.19.5 mcp/index.ts:39-49 declares {roots: {}} with tasks commented out (issue 28567), matching the live probe; V2 v2.2.3 declares roots and elicitation only | source | 2026-10-30 |  |
 | Events | [![no](assets/icons/n.svg)](https://github.com/anomalyco/opencode/tree/810c0eba1a7348036f8bdf61e6632d0c36c6876c/packages/opencode/src/mcp) | grep for events/subscribe and notifications/events finds nothing in V1 1.19.5, its npm bundle or V2 v2.2.3 | source | 2026-10-30 |  |
 | CIMD | [![no](assets/icons/n.svg)](https://github.com/anomalyco/opencode/blob/810c0eba1a7348036f8bdf61e6632d0c36c6876c/packages/opencode/src/mcp/index.ts#L301) | V1 1.19.5 uses dynamic client registration or a configured clientId and sets no clientMetadataUrl; only V2 v2.2.3 sends CLIENT_METADATA_URL https://opencode.ai/oauth/opencode/client.json when the server supports CIMD (packages/core/src/mcp/oauth.ts:29,456) | source | 2026-10-30 |  |
@@ -112,7 +112,7 @@ Tier **C** · CLI · version checked `0.166.0` · tracker [openai/codex](https:/
 | Feature | Value | Evidence | Method | Checked | Shipped |
 | --- | --- | --- | --- | --- | --- |
 | Spec version | [![older spec](assets/icons/spec-older.svg) 2025-06-18](https://github.com/openai/codex/blob/6ff1e1ca3b30fc8b914720681fcf5fe62e95f856/codex-rs/features/src/lib.rs#L1641) | Live probe of 0.166.0: initialize carries 2025-06-18; the mcp_2026_07_28 feature is under development and off by default | probe | 2026-10-30 |  |
-| MCP Apps | [![no](assets/icons/n.svg)](https://github.com/openai/codex/issues/52524) | Live probe of 0.166.0 declares no io.modelcontextprotocol/ui extension; enable_mcp_apps is under development and off by default, and app rendering reports come from Codex Desktop, not the CLI | probe | 2026-10-30 |  |
+| MCP Apps | [![not applicable](assets/icons/na.svg)](https://github.com/openai/codex/issues/52524) | Live probe of 0.166.0 declares no io.modelcontextprotocol/ui extension; enable_mcp_apps is under development and off by default, and app rendering reports come from Codex Desktop, not the CLI | probe | 2026-10-30 |  |
 | Tasks | [![no](assets/icons/n.svg)](https://github.com/openai/codex/issues/48617) | Live probe of 0.166.0 declares no tasks capability, and the feature request is still open | probe | 2026-10-30 |  |
 | Events | [![no](assets/icons/n.svg)](https://github.com/openai/codex/blob/6ff1e1ca3b30fc8b914720681fcf5fe62e95f856/codex-rs/codex-mcp/src/resource_client.rs#L353) | events/list and events/stream are sent only to the built-in codex_apps hosted server, not to user-configured MCP servers; issue 49665 about event subscriptions is still open | source | 2026-10-30 |  |
 | CIMD | [![yes](assets/icons/y.svg)](https://developers.openai.com/codex/mcp) | Docs say Codex picks CIMD when the authorization server advertises client_id_metadata_document_supported, otherwise DCR | docs | 2026-10-30 | [2026-08-18 (0.148.0)](https://github.com/openai/codex/releases/tag/rust-v0.148.0) |
@@ -131,7 +131,7 @@ Tier **D** · CLI · version checked `0.66.0` · tracker [google-gemini/gemini-c
 | Feature | Value | Evidence | Method | Checked | Shipped |
 | --- | --- | --- | --- | --- | --- |
 | Spec version | [![older spec](assets/icons/spec-older.svg) 2025-06-18](https://github.com/google-gemini/gemini-cli/blob/970413207732f5d4d8c50540c7fc359c44fdaaf2/packages/core/package.json#L34) | v0.66.0 pins @modelcontextprotocol/sdk 1.23.0 (packages/core/package.json:34), whose LATEST_PROTOCOL_VERSION is 2025-06-18, and the live probe agrees | probe | 2026-10-30 |  |
-| MCP Apps | [![no](assets/icons/n.svg)](https://github.com/google-gemini/gemini-cli/blob/970413207732f5d4d8c50540c7fc359c44fdaaf2/packages/core/src/tools/mcp-client.ts#L1869) | No io.modelcontextprotocol/ui extension or ui:// handling at v0.66.0 or in the 0.66.0 bundle | source | 2026-10-30 |  |
+| MCP Apps | [![not applicable](assets/icons/na.svg)](https://github.com/google-gemini/gemini-cli/blob/970413207732f5d4d8c50540c7fc359c44fdaaf2/packages/core/src/tools/mcp-client.ts#L1869) | No io.modelcontextprotocol/ui extension or ui:// handling at v0.66.0 or in the 0.66.0 bundle | source | 2026-10-30 |  |
 | Tasks | [![no](assets/icons/n.svg)](https://github.com/google-gemini/gemini-cli/blob/970413207732f5d4d8c50540c7fc359c44fdaaf2/packages/core/src/tools/mcp-client.ts#L1869) | mcp-client.ts:1880 registers only roots, so no tasks capability; the weak mcp list probe also declared no tasks | source | 2026-10-30 |  |
 | Events | [![no](assets/icons/n.svg)](https://github.com/google-gemini/gemini-cli/tree/970413207732f5d4d8c50540c7fc359c44fdaaf2/packages/core/src) | No events/list, events/subscribe or notifications/events at v0.66.0 or in the 0.66.0 bundle | source | 2026-10-30 |  |
 | CIMD | [![no](assets/icons/n.svg)](https://github.com/google-gemini/gemini-cli/blob/970413207732f5d4d8c50540c7fc359c44fdaaf2/packages/core/src/mcp/oauth-provider.ts#L105) | oauth-provider.ts:105 registers clients with its own RFC 7591 dynamic registration and never uses a client metadata URL; the bundle has client_id_metadata_document_supported only in SDK schemas | source | 2026-10-30 |  |

diff --git a/methodology/METHODOLOGY.md b/methodology/METHODOLOGY.md
@@ -11,7 +11,7 @@ Each client gets ten cells, one per entry in [data/features.yaml](../data/featur
 | Spec version | The newest protocol revision the client negotiates | [MCP specification](https://modelcontextprotocol.io/specification/2026-07-28/changelog) |
 | Code mode | `y`, `p` or `n` | Client feature, not in the spec ([Anthropic](https://www.anthropic.com/engineering/code-execution-with-mcp), [Cloudflare](https://blog.cloudflare.com/code-mode/)) |
 | Tool search | `y`, `p` or `n`, plus a label for how it searches | Client feature, not in the spec ([Anthropic](https://www.anthropic.com/engineering/advanced-tool-use)) |
-| MCP Apps | `y`, `p` or `n` | [MCP Apps extension](https://modelcontextprotocol.io/extensions/apps/overview) |
+| MCP Apps | `y`, `p` or `n`; `na` for a terminal CLI | [MCP Apps extension](https://modelcontextprotocol.io/extensions/apps/overview) |
 | Tasks | `y`, `p` or `n` | [Tasks extension](https://modelcontextprotocol.io/extensions/tasks/overview), experimental in the 2025-11-25 spec |
 | Events | `y`, `p` or `n` | [Triggers and Events working group](https://github.com/modelcontextprotocol/experimental-ext-triggers-events) |
 | CIMD | `y`, `p` or `n` | [Authorization, client registration](https://modelcontextprotocol.io/specification/2026-07-28/basic/authorization/client-registration) |
@@ -24,6 +24,7 @@ The values mean:
 - `y`: the feature works in the version checked, on by default or with a documented setting.
 - `p`: partial. Behind a flag, off by default, marked experimental, or only one of two modes (for example form elicitation without URL elicitation).
 - `n`: not supported, or not documented anywhere we could find. A missing feature and an undocumented one look the same from outside, so a vendor who can show support should [send the source](../CONTRIBUTING.md).
+- `na`: not applicable. Only on the MCP Apps cell of a terminal CLI, which has no web view to render server UI. It scores 0, like `n`, and goes back to `y` or `p` if the CLI starts passing the UI to a host that renders it.
 
 A feature the vendor calls beta or preview is `y` when it is on by default or turned on by a documented setting or admin policy, and `p` when it needs an experimental flag or an undocumented switch. The evidence names the vendor's label.
 
@@ -101,7 +102,7 @@ The history snapshots in [data/history/](../data/history/) are a second record. 
 - a client's tier differs from the rubric without a `tier_note`;
 - the README sections, EVIDENCE.md or the history snapshot for `as_of` differ from what `npm run build` would write.
 
-The same checks apply to `n` cells, which also need a source showing where we looked.
+The same checks apply to `n` and `na` cells, which also need a source showing where we looked.
 
 ## Limitations
 

diff --git a/data/README.md b/data/README.md
@@ -60,7 +60,7 @@ The file name is the client name in lower case with hyphens: `Claude Code` is `c
 
 | Field | Required | Meaning |
 | --- | --- | --- |
-| `value` | yes | `y`, `p` or `n`. The protocol cell holds a version from `spec_versions`, or `not published`. |
+| `value` | yes | `y`, `p` or `n`, or `na` on the `apps` cell of a `cli` client. The protocol cell holds a version from `spec_versions`, or `not published`. |
 | `method` | yes | `probe`, `source`, `docs`, `changelog` or `issue` |
 | `source` | yes | https URL of the evidence |
 | `evidence` | yes | What the source shows, in a sentence or a code reference |

diff --git a/methodology/RUBRIC.md b/methodology/RUBRIC.md
@@ -4,7 +4,7 @@ Tiers come from three numbers. The rules below are the same ones in `rubricTier`
 
 ## Feature score
 
-Each of the nine feature columns (everything except the spec version) scores 1 for yes, 0.5 for partial and 0 for no. The maximum is 9.
+Each of the nine feature columns (everything except the spec version) scores 1 for yes, 0.5 for partial and 0 for no or not applicable. The maximum is 9.
 
 ## Spec grade
 
